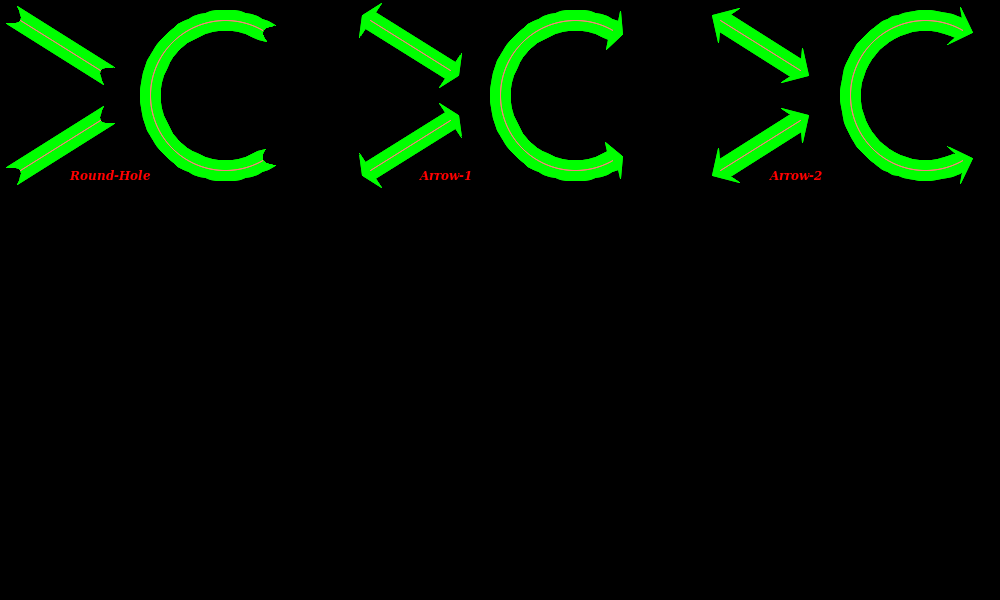
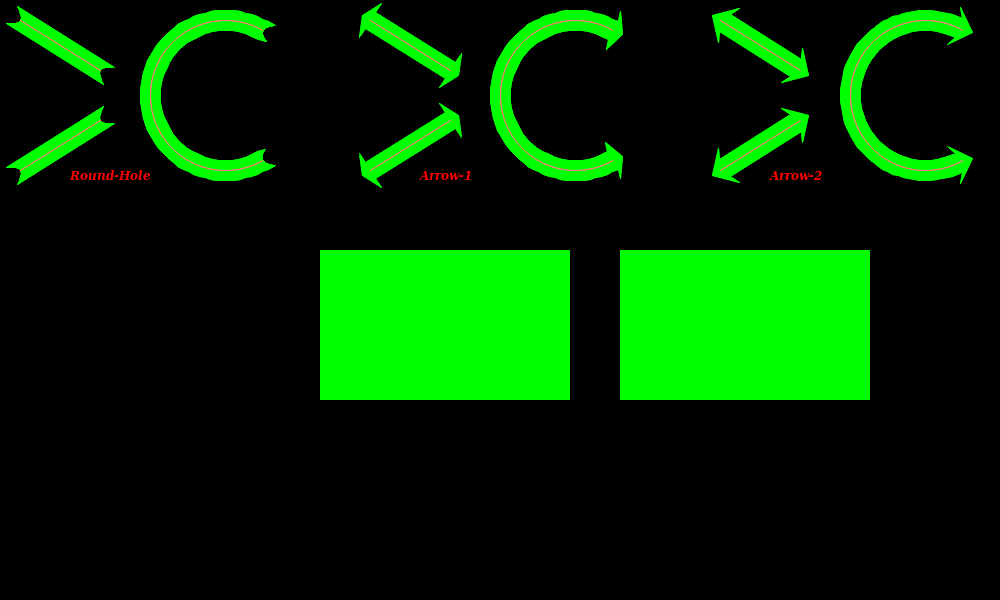
Implementing 2D gradient

Changed region(s): [[0.31, 0.39, 0.589, 0.69], [0.62, 0.39, 0.868, 0.69]]

diff --git a/src/Pt-Gfx/Rasterizer2.cpp b/src/Pt-Gfx/Rasterizer2.cpp
@@ -348,11 +348,11 @@ void Rasterizer2::updateGradientBrush(Pt::int32_t width, Pt::int32_t height)
     be = _brush.gradientColor().blue () / 257;
     ae = _brush.gradientColor().alpha() / 257;
 
-        // Create one-dimensional gradient
+    // Create one-dimensional gradient
     if(width == 1 || height == 1) {
         const Pt::int32_t  length = width + height - 1 - 1;
               Pt::uint8_t* pixel  = _brushBuffer.data();
-        for(int n = 0; n <= length; ++n) {
+        for(Pt::int32_t n = 0; n <= length; ++n) {
             const Pt::int32_t f2 = FIXED_POINT_FROM_INT(n) / length;
             const Pt::int32_t f1 = FIXED_POINT_CONSTANT_ONE - f2;
             const Pt::uint8_t r1 = FIXED_POINT_TO_INT(rs * f1);
@@ -372,6 +372,39 @@ void Rasterizer2::updateGradientBrush(Pt::int32_t width, Pt::int32_t height)
     }
 
     // Create two-dimensional gradient
+    const float        cx   = width  * 0.5f;
+    const float        cy   = height * 0.5f;
+    const float        mlen = 0.5f / Gfx::Math::fastSqrt(width * width + height * height);
+          Pt::uint8_t* pixel = _brushBuffer.data();
+    switch(_brush.fillStyle()) {
+        case Pt::Gfx::Brush::RectangularGradient: {
+            break;
+        }
+
+        case Pt::Gfx::Brush::RadialGradient: {
+            for(Pt::int32_t y = 0; y < height; ++y) {
+                const float dy2 = (y - cy) * (y - cy);
+                for(Pt::int32_t x = 0; x < width; ++x) {
+                    const float dx2 = (x - cx) * (x - cx);
+                    const float len = round(Gfx::Math::fastSqrt(dx2 + dy2) * mlen);
+                    const float mf  = (len >= 1.0f) ? 1.0f : len;
+                    const float imf = 1.0f - mf;
+                    *pixel++ = (bs * mf + be * imf);
+                    *pixel++ = (gs * mf + ge * imf);
+                    *pixel++ = (rs * mf + re * imf);
+                    *pixel++ = (as * mf + ae * imf);
+                }
+            }
+            break;
+        }
+
+        case Pt::Gfx::Brush::ConicalGradient: {
+            break;
+        }
+
+        default:
+            return;
+    }
 }
 
 void Rasterizer2::updateClip()
